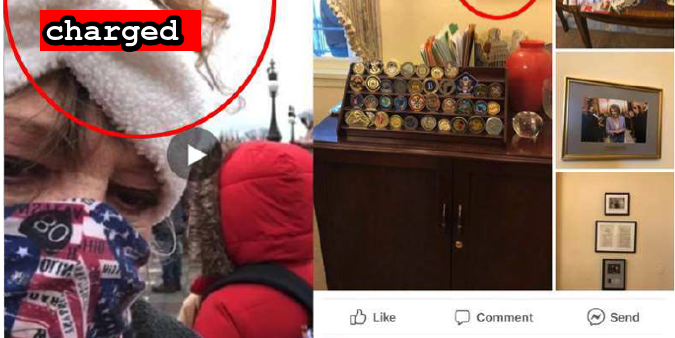
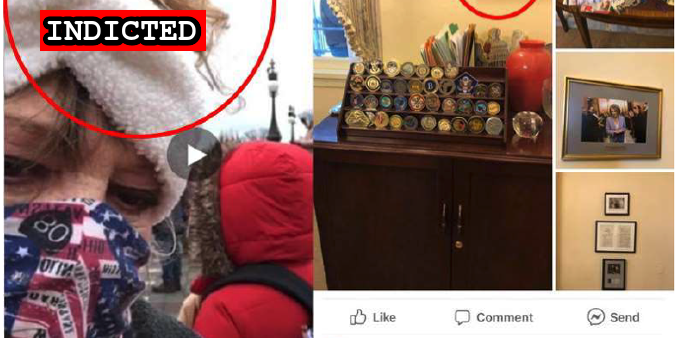
Indictment

Changed region(s): [[0.0622, 0.0296, 0.3111, 0.1479]]

diff --git a/docs/_suspects/virginia-spencer.md b/docs/_suspects/virginia-spencer.md
@@ -1,0 +1,29 @@
+---
+name: Virginia Spencer
+lastName: Spencer
+aka:
+residence: North Carolina
+status: Charged
+date:
+charged:
+indicted:
+age: 37
+occupation:
+affiliations:
+jurisdiction: Federal
+image: /images/preview/virginia-spencer.jpg
+suspect: virginia-spencer.jpg
+booking:
+courtroom:
+courthouse:
+raid:
+perpwalk:
+quote:
+title: Virginia Spencer charged on [longDate]
+description: Click for latest case details. Suspects innocent until proven guilty.
+author: seditiontrack
+layout: suspect
+published: false
+charges:
+---
+- [News Report]()

diff --git a/docs/_suspects/ryan-zink.md b/docs/_suspects/ryan-zink.md
@@ -1,0 +1,29 @@
+---
+name: Ryan Zink
+lastName: Zink
+aka:
+residence: Texas
+status: Charged
+date:
+charged:
+indicted:
+age: 32
+occupation:
+affiliations:
+jurisdiction: Federal
+image: /images/preview/ryan-zink.jpg
+suspect: ryan-zink.jpg
+booking:
+courtroom:
+courthouse:
+raid:
+perpwalk:
+quote:
+title: Ryan Zink charged on [longDate]
+description: Click for latest case details. Suspects innocent until proven guilty.
+author: seditiontrack
+layout: suspect
+published: false
+charges:
+---
+- [News Report]()

diff --git a/docs/_suspects/melody-steele-smith.md b/docs/_suspects/melody-steele-smith.md
@@ -3,10 +3,10 @@ name: Melody Steele-Smith
 lastName: Steele-Smith
 aka:
 residence: Virginia
-status: Charged
+status: Indicted
 date: 2021-01-20
 charged: 2021-01-20
-indicted:
+indicted: 2021-02-03
 age:
 occupation:
 affiliations:
@@ -28,3 +28,4 @@ charges:
 ---
 - [Complaint](https://www.justice.gov/file/1360206/download)
 - [Statement of Facts](https://www.justice.gov/file/1360206/download)
+- [Indictment](https://assets.documentcloud.org/documents/20471979/steele-smith.pdf)
